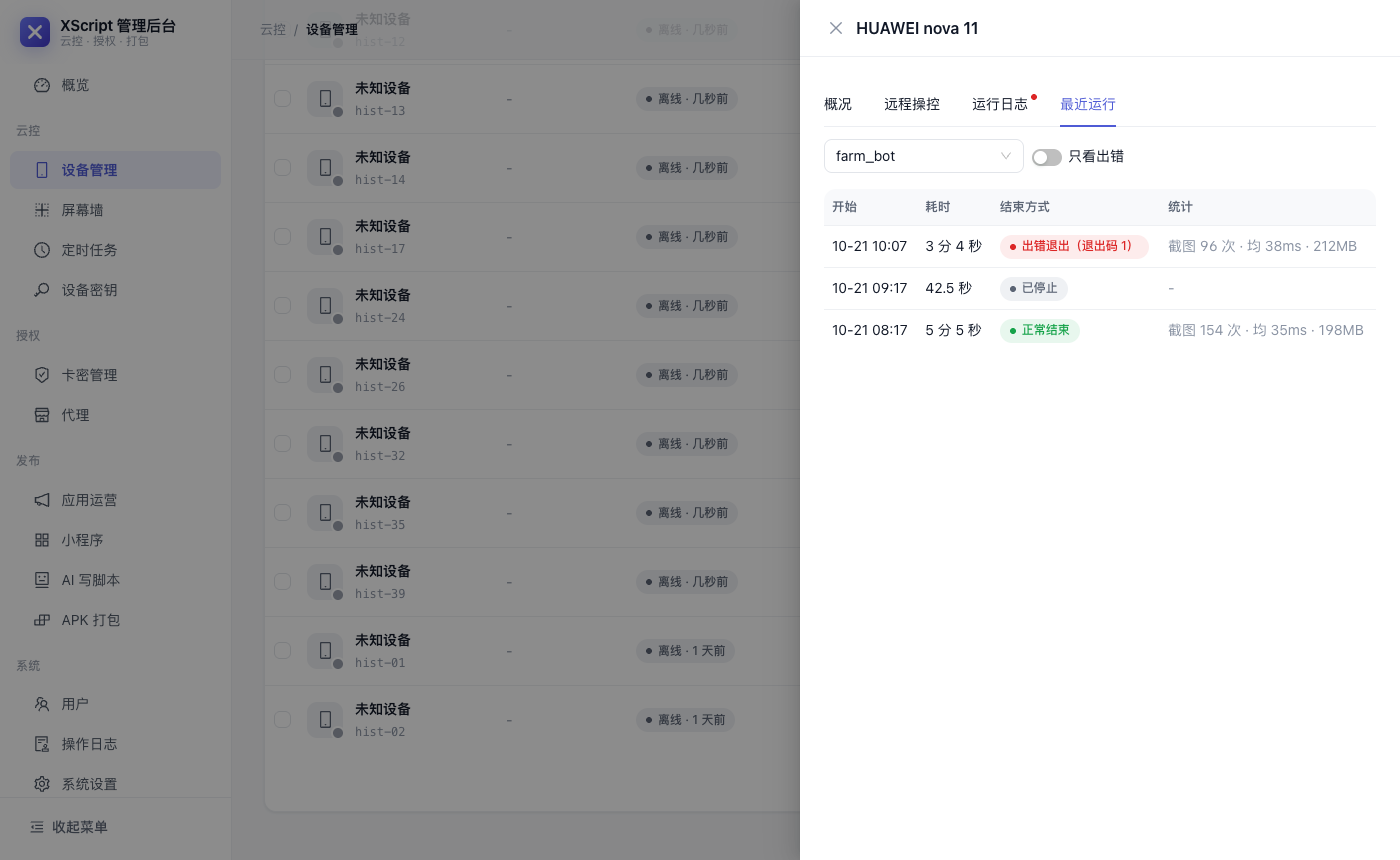
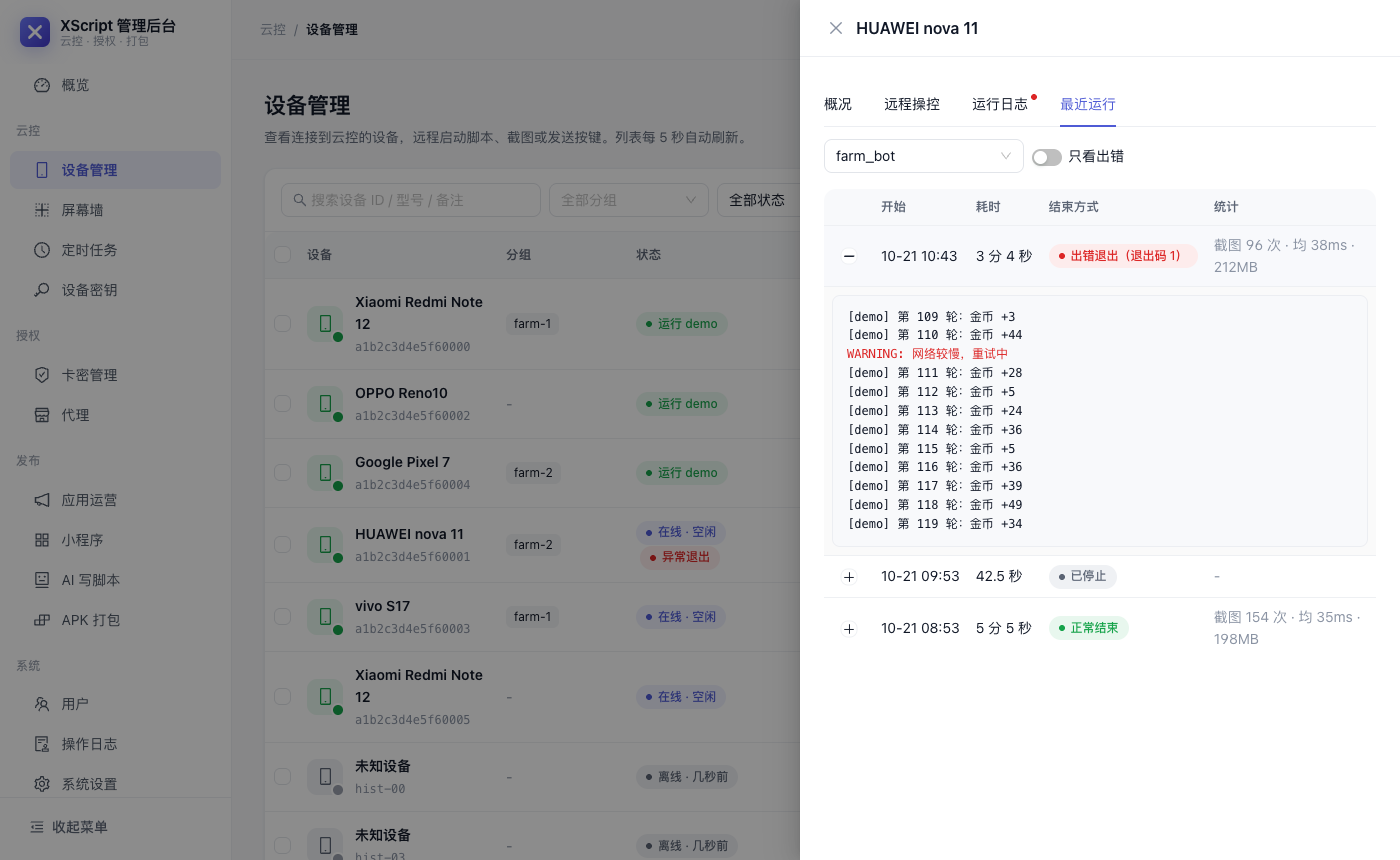
feat(cloud): expand a recent run into its own log lines

diff --git a/backend/web/tests/device-runs.test.tsx b/backend/web/tests/device-runs.test.tsx
@@ -6,9 +6,9 @@ import { createQueryClient } from "../src/queryClient";
 import { DeviceRuns, fmtDuration, fmtStats } from "../src/pages/devices/DeviceRuns";
 
 const runs = [
-  { project: "签到", start: 1_760_000_000_000, duration_ms: 4200, exit: "1", user_stop: false, outcome: "出错退出（退出码 1）", failed: true,
+  { project: "签到", start: 1_760_000_000_000, duration_ms: 4200, exit: "1", user_stop: false, outcome: "出错退出（退出码 1）", failed: true, log_from: 10, log_to: 12,
     stats: { captures: 12, capture_avg_ms: 41, peak_mb: 180 } },
-  { project: "签到", start: 1_759_999_000_000, duration_ms: 61_000, exit: "0", user_stop: false, outcome: "正常结束", failed: false },
+  { project: "签到", start: 1_759_999_000_000, duration_ms: 61_000, exit: "0", user_stop: false, outcome: "正常结束", failed: false, log_from: 2, log_to: 5 },
 ];
 let relayed: string[] = [];
 
@@ -19,6 +19,13 @@ function stub(runsStatus = 200) {
     vi.fn(async (_url: string, init?: RequestInit) => {
       const path = JSON.parse(String(init?.body ?? "{}")).path as string;
       relayed.push(path);
+      if (path === "/logs")
+        return Response.json({ entries: [
+          { seq: 10, ts: 0, stream: "stdout", line: "before this run\n" },
+          { seq: 11, ts: 0, stream: "stdout", line: "第 12 轮：收菜\n" },
+          { seq: 12, ts: 0, stream: "stderr", line: "TimeoutError: 找不到「收获」按钮\n" },
+          { seq: 13, ts: 0, stream: "stdout", line: "next run\n" },
+        ], next: 13 });
       if (path === "/projects") return Response.json({ projects: [{ name: "其他" }, { name: "签到" }] });
       if (runsStatus !== 200) return Response.json({ detail: "missing project" }, { status: runsStatus });
       return Response.json({ runs });
@@ -63,6 +70,17 @@ describe("DeviceRuns (云控 设备 → 最近运行)", () => {
     stub();
     mount(false);
     expect(screen.getByText(/上线后才能查看/)).toBeTruthy();
+  });
+
+  it("expands a run into its own log lines (log_from < seq <= log_to) and explains a rolled-out log", async () => {
+    mount();
+    fireEvent.click(await screen.findByText("出错退出（退出码 1）"));
+    expect(await screen.findByText("TimeoutError: 找不到「收获」按钮")).toBeTruthy();
+    expect(screen.getByText("第 12 轮：收菜")).toBeTruthy();
+    expect(screen.queryByText("before this run")).toBeNull();
+    expect(screen.queryByText("next run")).toBeNull();
+    fireEvent.click(screen.getByText("正常结束"));
+    expect(await screen.findByText(/已不在手机的日志缓冲区里/)).toBeTruthy();
   });
 
   it("formats", () => {

diff --git a/backend/web/src/pages/devices/DeviceRuns.tsx b/backend/web/src/pages/devices/DeviceRuns.tsx
@@ -12,13 +12,37 @@ export interface RunRecord {
   duration_ms: number;
   exit?: string | null;
   user_stop?: boolean;
+  log_from: number;
+  log_to: number;
   outcome: string;
   failed: boolean;
   stats?: { captures: number; capture_avg_ms: number; peak_mb: number } | null;
 }
 
-function relay<T>(id: string, path: string) {
-  return request<T>("POST", `/api/devices/${encodeURIComponent(id)}/http`, { method: "GET", path, timeout: 15 });
+function relay<T>(id: string, path: string, query?: Record<string, string>) {
+  return request<T>("POST", `/api/devices/${encodeURIComponent(id)}/http`, { method: "GET", path, query, timeout: 15 });
+}
+
+/** One run's own lines (log_from < seq <= log_to) from the phone's log buffer, read through the relay. */
+function RunLog({ id, run }: { id: string; run: RunRecord }) {
+  const q = useQuery({
+    queryKey: ["device-run-log", id, run.log_from, run.log_to],
+    queryFn: () => relay<{ entries: { seq: number; stream: string; line: string }[] }>(id, "/logs", { since: String(run.log_from) }),
+    retry: false,
+  });
+  if (q.isLoading) return <Typography.Text type="secondary">读取中…</Typography.Text>;
+  if (q.error) return <Alert type="error" showIcon message={(q.error as Error).message} />;
+  const lines = (q.data?.entries ?? []).filter((e) => e.seq > run.log_from && e.seq <= run.log_to);
+  if (!lines.length) return <Typography.Text type="secondary">这段日志已不在手机的日志缓冲区里（被新日志挤掉或已清空）</Typography.Text>;
+  return (
+    <pre className="mono code-block" aria-label="这次运行的日志" style={{ maxHeight: 260, overflow: "auto", margin: 0 }}>
+      {lines.map((l) => (
+        <div key={l.seq} style={l.stream === "stderr" ? { color: "var(--ant-color-error, #d4380d)" } : undefined}>
+          {l.line.replace(/\n$/, "")}
+        </div>
+      ))}
+    </pre>
+  );
 }
 
 export function fmtDuration(ms: number): string {
@@ -80,6 +104,7 @@ export function DeviceRuns({ id, online, defaultProject }: { id: string; online:
           rowKey="start"
           loading={runs.isLoading && !!project}
           pagination={false}
+          expandable={{ expandedRowRender: (r) => <RunLog id={id} run={r} />, expandRowByClick: true }}
           dataSource={rows}
           locale={{ emptyText: failedOnly ? "最近没有出错的运行" : "还没有运行记录" }}
           columns={[

diff --git a/backend/scripts/demo.py b/backend/scripts/demo.py
@@ -150,11 +150,12 @@ async def fake_device(url: str, n: int) -> None:
                             payload = json.dumps({"runs": [
                                 {"project": d["path"].split("/")[2], "start": now - 600_000, "duration_ms": 184_000, "exit": "1",
                                  "user_stop": False, "outcome": "出错退出（退出码 1）", "failed": True,
+                                 "log_from": max(0, len(log) - 12), "log_to": len(log),
                                  "stats": {"captures": 96, "capture_avg_ms": 38, "peak_mb": 212}},
                                 {"project": d["path"].split("/")[2], "start": now - 3_600_000, "duration_ms": 42_500, "exit": "stopped",
-                                 "user_stop": True, "outcome": "已停止", "failed": False},
+                                 "user_stop": True, "outcome": "已停止", "failed": False, "log_from": 0, "log_to": 0},
                                 {"project": d["path"].split("/")[2], "start": now - 7_200_000, "duration_ms": 305_000, "exit": "0",
-                                 "user_stop": False, "outcome": "正常结束", "failed": False,
+                                 "user_stop": False, "outcome": "正常结束", "failed": False, "log_from": 0, "log_to": 0,
                                  "stats": {"captures": 154, "capture_avg_ms": 35, "peak_mb": 198}},
                             ]}).encode()
                         elif d["path"].endswith("/zip") and d["method"] == "PUT":

diff --git a/docs/使用手册.md b/docs/使用手册.md
@@ -447,9 +447,9 @@ yolo export model=runs/detect/train/weights/best.pt format=onnx imgsz=640
 
 ### 设备的最近运行
 
-设备详情里的 **最近运行**（操作员及以上）通过云控连接读取手机上保存的运行记录（每个工程最近 20 次，App v0.5.0 起），不需要和手机在同一网络：选择工程（默认是正在运行或上次运行的工程），列出开始时间、耗时、结束方式（出错退出标红、点停止为灰色）和「运行统计」（截图次数、平均耗时、峰值内存）。打开「只看出错」只列出错的运行。记录只在手机上，服务端不保存，所以设备离线时看不到；手机端版本较旧或工程已删除时会说明。
+设备详情里的 **最近运行**（操作员及以上）通过云控连接读取手机上保存的运行记录（每个工程最近 20 次，App v0.5.0 起），不需要和手机在同一网络：选择工程（默认是正在运行或上次运行的工程），列出开始时间、耗时、结束方式（出错退出标红、点停止为灰色）和「运行统计」（截图次数、平均耗时、峰值内存）。打开「只看出错」只列出错的运行。点一行展开那次运行自己的日志（只取那次的输出，报错标红）；那段日志已被手机的日志缓冲区挤掉时会说明。记录只在手机上，服务端不保存，所以设备离线时看不到；手机端版本较旧或工程已删除时会说明。
 
-![设备详情的最近运行：一次出错退出、一次停止、一次正常结束及其运行统计（演示数据）](images/admin-device-runs.png)
+![设备详情的最近运行：展开出错退出那次的日志，下面是一次停止和一次正常结束（演示数据）](images/admin-device-runs.png)
 
 ### 远程操控
 
